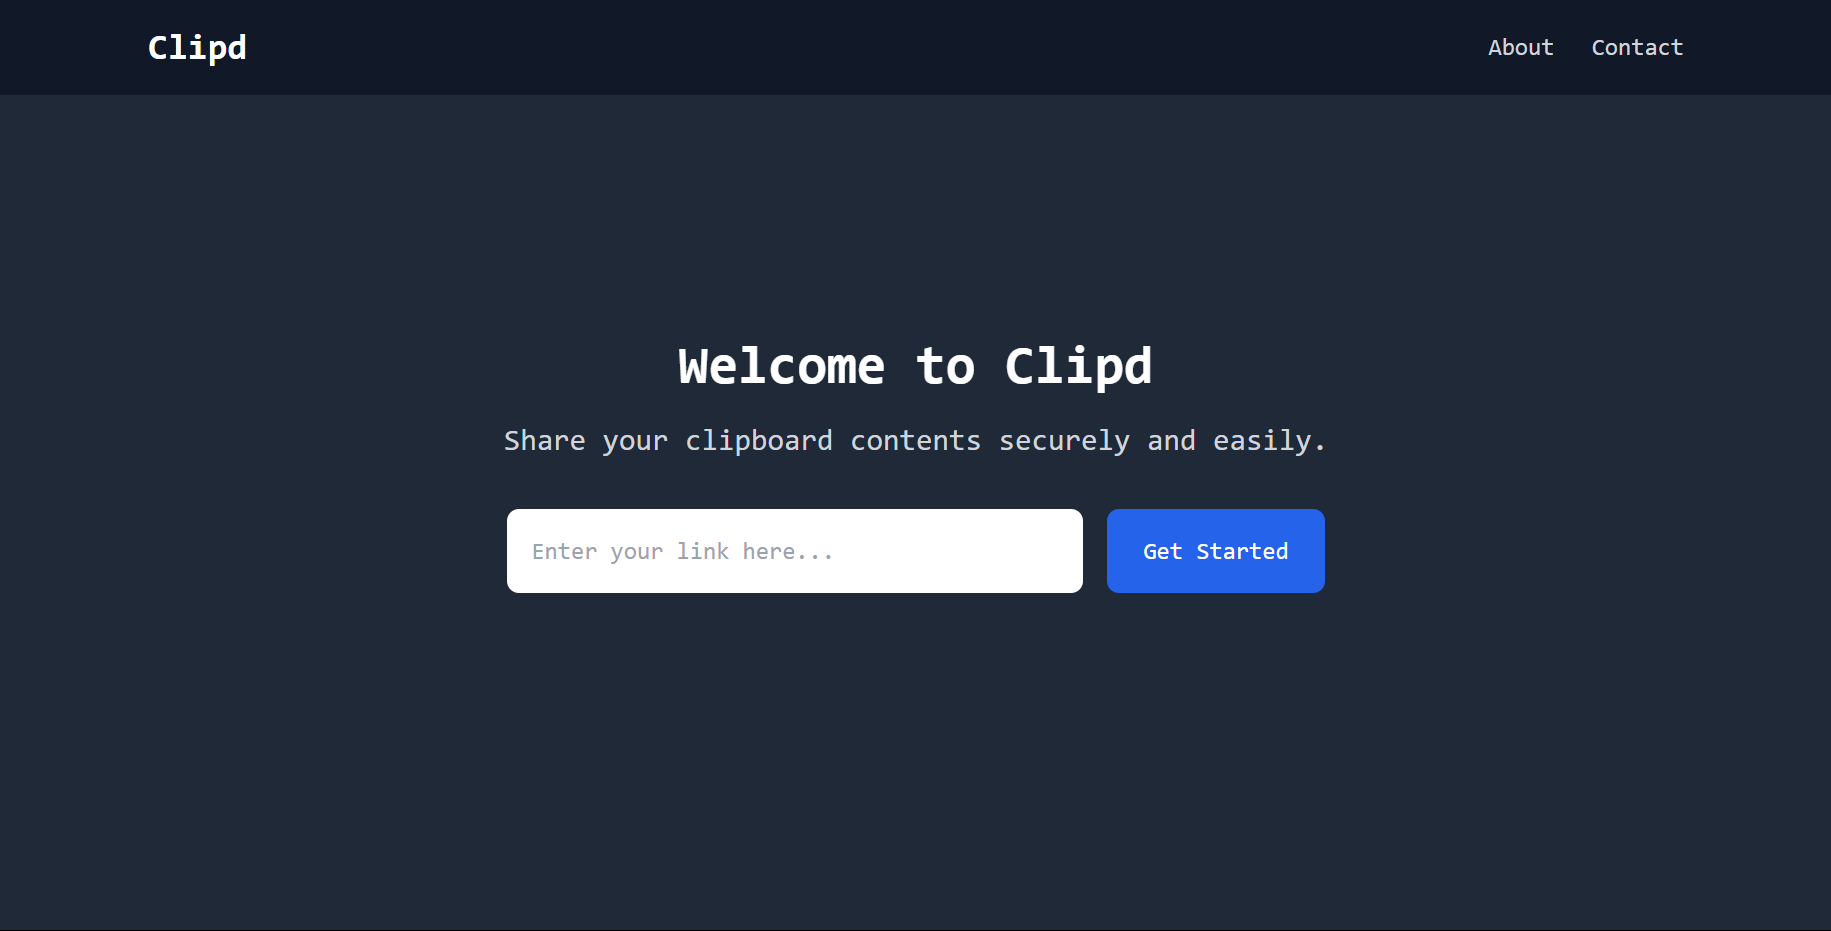
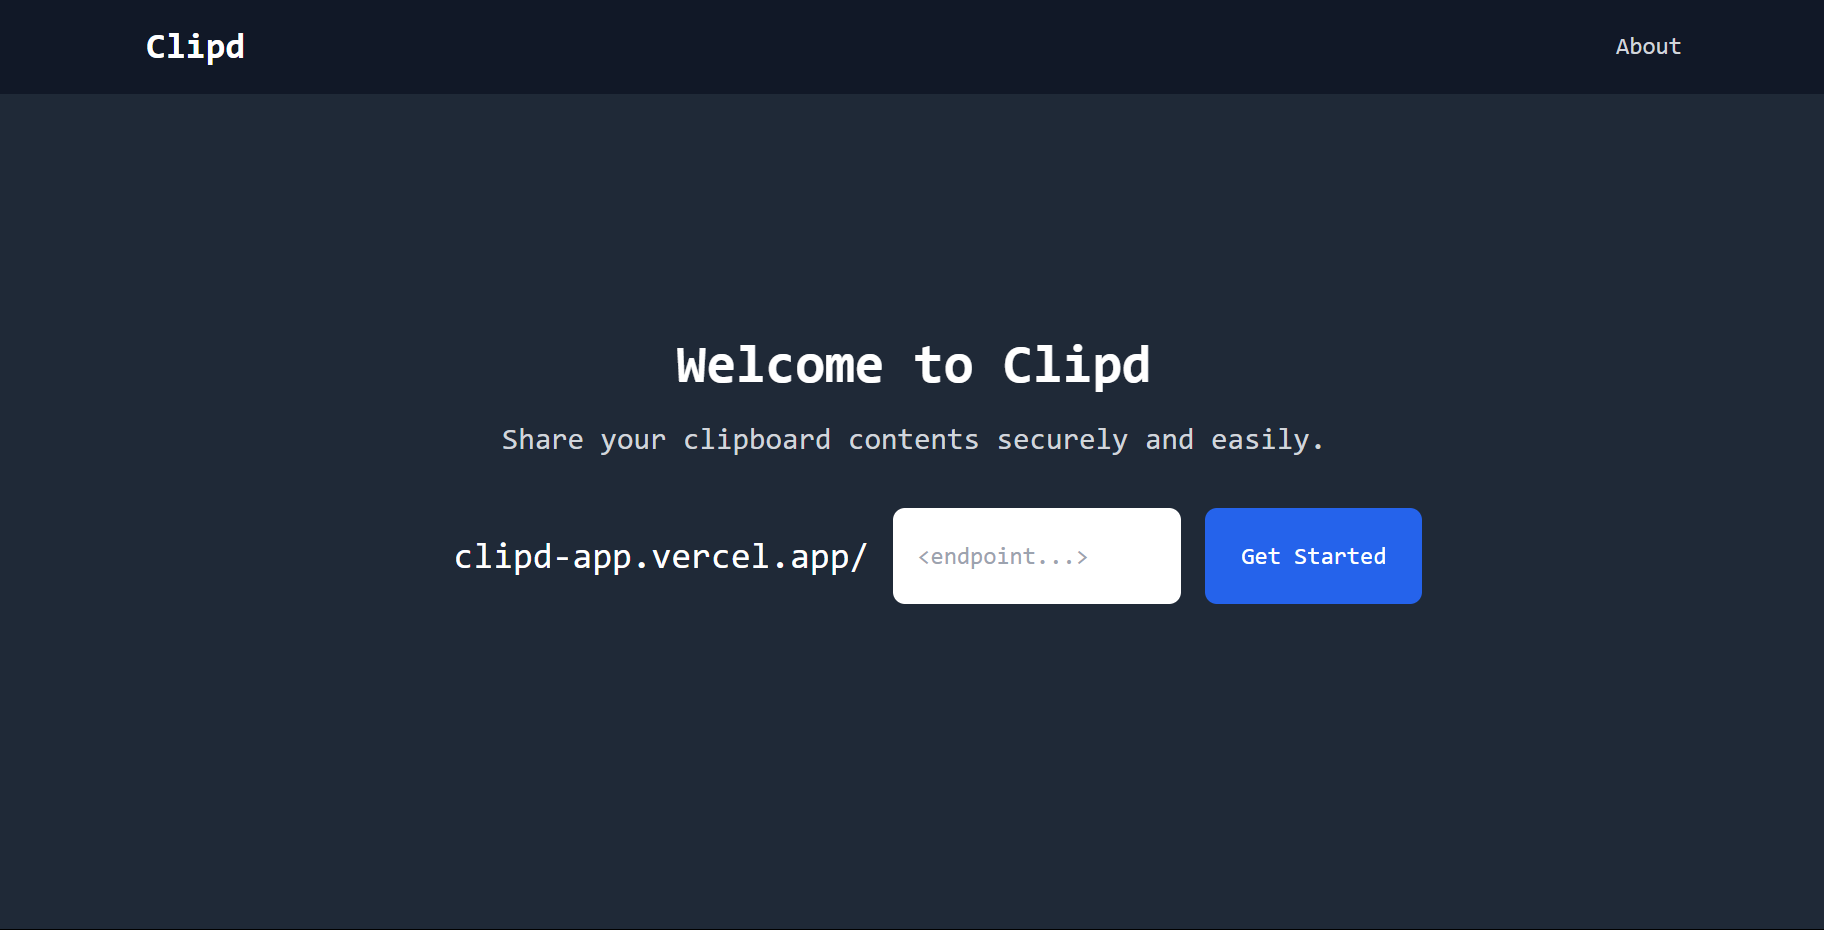
Update files

diff --git a/templates/home.html b/templates/home.html
@@ -26,10 +26,10 @@
             <div class="text-center py-24">
                 <h1 class="text-4xl font-bold text-white mb-4">Welcome to Clipd</h1>
                 <p class="text-gray-300 text-xl mb-8">Share your clipboard contents securely and easily.</p>
-                <form method="post" action="/" class="flex justify-center">
-                    <p class="text-2xl w-78 p-4 rounded-lg text-white ml-4">clipd-app.vercel.app/</p>
-                    <input type="text" name="link" class="w-48 p-4 rounded-lg focus:outline-none focus:ring-2 focus:ring-blue-500" placeholder="<endpoint...>" autocomplete="off">
-                    <button type="submit" class="bg-blue-600 text-white px-6 py-3 rounded-lg hover:bg-blue-700 ml-4">
+                <form method="post" action="/" class="grid grid-cols-1 md:grid-cols-5 gap-2 flex justify-center">
+                    <p class="text-2xl p-4 w-full md:col-span-2 rounded-lg text-white">clipd-app.vercel.app/</p>
+                    <input type="text" name="link" class="w-48 mx-auto md:w-full md:col-span-2 p-4 rounded-lg focus:outline-none focus:ring-2 focus:ring-blue-500" placeholder="<endpoint...>" autocomplete="off">
+                    <button type="submit" class="bg-blue-600 w-48 mx-auto my-4 md:my-0 md:w-full md:col-span-1 text-white px-6 py-3 rounded-lg hover:bg-blue-700 md:ml-4">
                         Get Started
                     </button>
                 </form>
